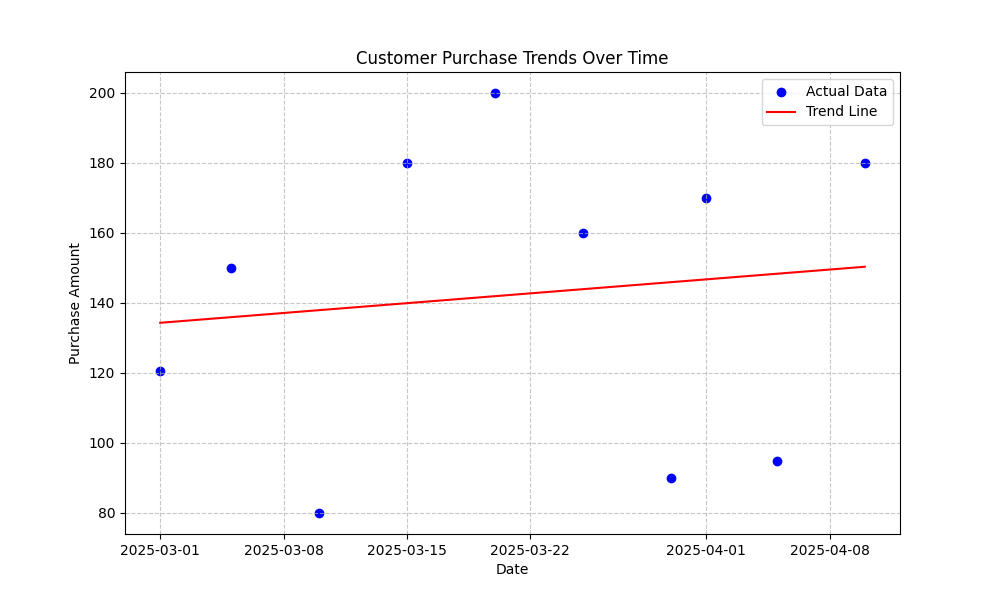
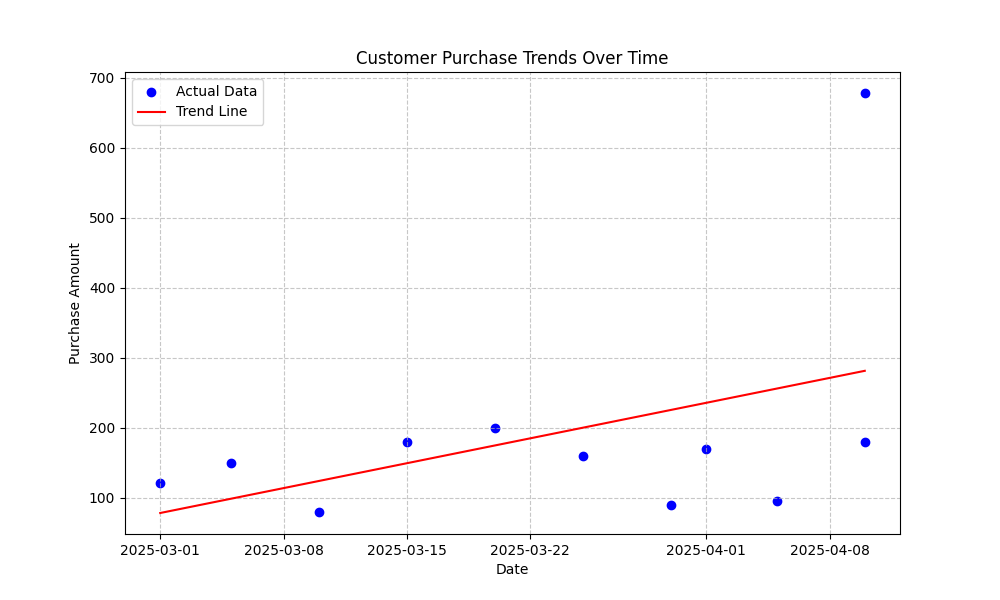
feature: improved ui and features

diff --git a/templates/index.html b/templates/index.html
@@ -2,15 +2,44 @@
 <html>
 <head>
     <title>Customer Data Tool</title>
+    <style>
+        body {
+            display: flex;
+            flex-direction: column;
+            justify-content: center;
+            align-items: center;
+            height: 100vh;
+            margin: 0;
+        }
+        .message {
+            color: red;
+            margin-top: 10px;
+        }
+    </style>
 </head>
 <body>
-    <h1>Upload Your CSV File</h1>
-    {% if error %}
-        <p style="color: red;">{{ error }}</p>
-    {% endif %}
-    <form method="POST" enctype="multipart/form-data">
-        <input type="file" name="file" required>
-        <button type="submit">Upload</button>
-    </form>
+    <h1>Welcome to the Customer Data Tool</h1>
+    <div id="file-upload" style="margin-top: 20px;">
+        <form method="POST" enctype="multipart/form-data" action="/">
+            <input type="file" name="file" id="fileInput" accept=".csv" required>
+            <button type="submit" id="uploadButton" disabled>Upload</button>
+        </form>
+        <p id="errorMessage" class="message"></p>
+    </div>
+    <script>
+        const fileInput = document.getElementById('fileInput');
+        const uploadButton = document.getElementById('uploadButton');
+        const errorMessage = document.getElementById('errorMessage');
+
+        fileInput.addEventListener('change', () => {
+            if (fileInput.files.length > 0) {
+                uploadButton.disabled = false;
+                errorMessage.textContent = '';
+            } else {
+                uploadButton.disabled = true;
+                errorMessage.textContent = 'Please select a CSV';
+            }
+        });
+    </script>
 </body>
 </html>

diff --git a/templates/trend.html b/templates/trend.html
@@ -2,13 +2,40 @@
 <html>
 <head>
     <title>Trend Report</title>
+    <style>
+        body {
+            display: flex;
+            flex-direction: column;
+            justify-content: center;
+            align-items: center;
+            height: 100vh;
+            margin: 0;
+        }
+        .links {
+            display: flex;
+            flex-direction: column;
+            align-items: center;
+            margin-top: 20px;
+        }
+        .links a {
+            margin: 5px 0;
+        }
+        .back {
+            margin-top: 20px;
+        }
+    </style>
 </head>
 <body>
     <h1>Trend Report</h1>
-    <img src="/static/trend.png" alt="Trend Line">
-    <p>Slope: {{ slope }}</p>
-    <p>Intercept: {{ intercept }}</p>
-    <p>R-squared: {{ r_squared }}</p>
-    <a href="/dashboard">Back to Dashboard</a>
+    <div class="links">
+        <a href="/">Home</a>
+        <a href="/dashboard">Dashboard</a>
+        <a href="/statistics">Statistics</a>
+    </div>
+    <h2>Trend Analysis</h2>
+    <img src="/static/trend.png" alt="Trend Report">
+    <div class="back">
+        <a href="/dashboard">Back?</a>
+    </div>
 </body>
 </html>

diff --git a/templates/statistics.html b/templates/statistics.html
@@ -2,10 +2,40 @@
 <html>
 <head>
     <title>Statistics</title>
+    <style>
+        body {
+            display: flex;
+            flex-direction: column;
+            justify-content: center;
+            align-items: center;
+            height: 100vh;
+            margin: 0;
+        }
+        .links {
+            display: flex;
+            flex-direction: column;
+            align-items: center;
+            margin-top: 20px;
+        }
+        .links a {
+            margin: 5px 0;
+        }
+        .back {
+            margin-top: 20px;
+        }
+    </style>
 </head>
 <body>
-    <h1>Data Statistics</h1>
-    {{ stats|safe }}
-    <a href="/dashboard">Back to Dashboard</a>
+    <h1>Statistics</h1>
+    <div class="links">
+        <a href="/">Home</a>
+        <a href="/dashboard">Dashboard</a>
+        <a href="/trend">Trend</a>
+    </div>
+    <div class="back">
+        <a href="/dashboard">Back?</a>
+    </div>
+    <h2>Statistics Data</h2>
+    {{ statistics_data|safe }}
 </body>
 </html>

diff --git a/templates/dashboard.html b/templates/dashboard.html
@@ -2,10 +2,34 @@
 <html>
 <head>
     <title>Dashboard</title>
+    <style>
+        body {
+            display: flex;
+            flex-direction: column;
+            justify-content: center;
+            align-items: center;
+            height: 100vh;
+            margin: 0;
+        }
+        .links {
+            display: flex;
+            flex-direction: column;
+            align-items: center;
+            margin-top: 20px;
+        }
+        .links a {
+            margin: 5px 0;
+        }
+
+    </style>
 </head>
 <body>
     <h1>Dashboard</h1>
-    <a href="/statistics">View Statistics</a> | <a href="/trend">Generate Trend Report</a>
+    <div class="links">
+        <a href="/" class="btn btn-primary">Home</a>
+        <a href="/statistics">Show Statistics</a>
+        <a href="/trend">Generate Trend Report</a>
+    </div>
     <h2>Data Preview</h2>
     {{ data|safe }}
 </body>

diff --git a/main.html b/main.html
@@ -37,6 +37,10 @@
         .success {
             color: green;
         }
+        #fileInput {
+            display: block; /* Make the file input visible */
+            margin-top: 10px;
+        }
     </style>
 </head>
 <body>
@@ -50,7 +54,7 @@
     {% endif %}
     <form action="/" method="POST" enctype="multipart/form-data">
         <button type="button" onclick="document.getElementById('fileInput').click()">Attach a New File</button>
-        <input type="file" id="fileInput" name="file" style="display: none;" required>
+        <input type="file" id="fileInput" name="file" required>
         <br>
         <button type="submit">Submit</button>
     </form>

diff --git a/data_analysis.py b/data_analysis.py
@@ -49,7 +49,7 @@ def dashboard():
     global data
     if data is None:
         return redirect(url_for("home"))
-    return render_template("dashboard.html", data=data.head().to_html())
+    return render_template("dashboard.html", data=data.to_html(index=False))
 
 
 # Route to display statistics
@@ -59,7 +59,7 @@ def statistics():
     if data is None:
         return redirect(url_for("home"))
     stats = data.describe().to_html()
-    return render_template("statistics.html", stats=stats)
+    return render_template("statistics.html", statistics_data=stats)
 
 
 # Route to generate trend report
@@ -70,9 +70,8 @@ def trend():
         return redirect(url_for("home"))
 
     try:
-        # Ensure the Date column is properly converted to timestamps
-        data["Timestamp"] = data["Date"].apply(lambda x: x.timestamp())
-        x = data["Timestamp"]
+        # Perform linear regression using Date as x-axis
+        x = pd.to_datetime(data["Date"]).map(pd.Timestamp.toordinal)
         y = data["PurchaseAmount"]
 
         # Perform linear regression
